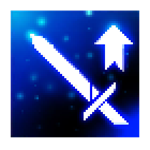
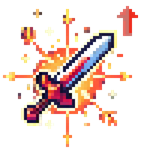
옵션 선택 추가

diff --git a/UpgradeManager.cpp b/UpgradeManager.cpp
@@ -15,10 +15,25 @@ void UpgradeManager::generateUpgradeOptions() {
         }
     };
 
+
     addOption("Increase Attack Power", [this]() { character->increaseAttackPower(10); },"UpgradeAttackPower.png");
     addOption("Increase Health", [this]() { character->increaseMaxHealth(20); },"UpgradeHealth.png");
     addOption("Reduce Skill Cooldown", [this]() { character->reduceCooldown(0.1f); },"UpgradeBasicCooldown.png");
     addOption("Increase Heroine Speed", [this]() {character->increaseSpeed(30.0f); },"UpgradePlayerSpeed.png");
+
+    addOption("Upgrade BulkUp", [this](){ character->increaseAttackPower(10); }, "UpgradeBulkUp.png");
+    addOption("Upgrade Dash", [this]() { character->increaseAttackPower(10); }, "UpgradeDash.png");
+    addOption("UpgradeBladeWhirl.png", [this]() { character->increaseAttackPower(10); }, "UpgradeBladeWhirl.png");
+
+
+    addOption("Increase Arrow Tower", [this]() { character->increaseAttackPower(10); }, "UpgradeArrowTower.png");
+    addOption("Increase Wizard Tower", [this]() { character->increaseAttackPower(10); }, "UpgradeWizardTower.png");
+    addOption("Increase Bomb Tower", [this]() { character->increaseAttackPower(10); }, "UpgradeBombTower.png");
+    addOption("Increase Cannon Tower", [this]() { character->increaseAttackPower(10); }, "UpgradeCannonTower.png");
+    addOption("Increase Training Tower", [this]() { character->increaseAttackPower(10); }, "UpgradeTrainingTower.png");
+
+
+
     std::shuffle(currentOptions.begin(), currentOptions.end(), rng);
 
     if (currentOptions.size() > 3) {
